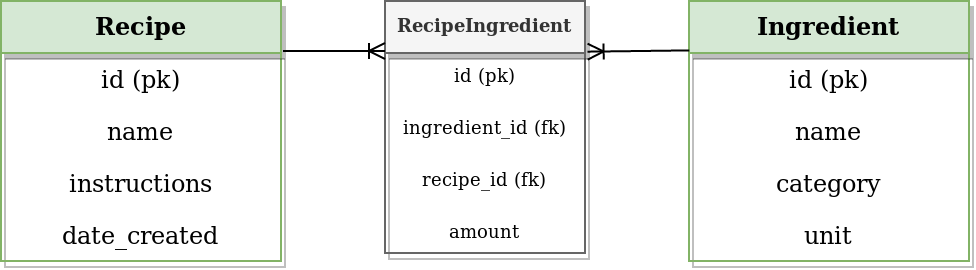
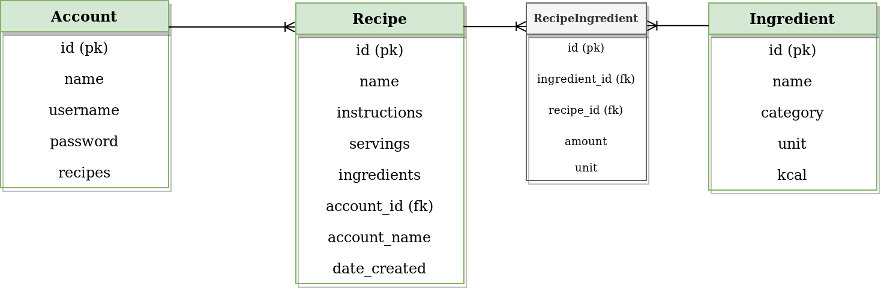
Add search view and update documentation

diff --git a/application/templates/recipes/search.html b/application/templates/recipes/search.html
@@ -1,0 +1,40 @@
+{% extends "layout.html" %}
+
+{% block body %}
+<div class="col-8">
+    <form method="POST" action="{{ url_for('recipes_search') }}">
+        <div class="form-row" style="margin-bottom: 20px;">
+
+            <div class="col-6">
+                <input class="form-control" type="text" name="search"
+                    placeholder="Search for recipes by ingredient category (eg. 'herb')" aria-label="Search">
+            </div>
+            <div class="col-2"> <button name="search_button" type="submit" class="btn btn-primary"
+                    style="background-color: #024700;">Search</button>
+            </div>
+        </div>
+    </form>
+
+
+    <table>
+        {% for recipe in results %}
+        <tr>
+            <td><a href="{{ url_for('view_recipe', recipe_id=recipe.id) }}">{{ recipe.name }}</a> by
+                {{ recipe.account_name }}</td>
+            {% if current_user.is_authenticated and recipe.account_id == account_id %}
+            <td>
+                <form method="GET" action="{{ url_for('edit_recipe', recipe_id=recipe.id) }}">
+                    <input type="submit" value="Edit" />
+                </form>
+            </td>
+            <td>
+                <form method="POST" action="{{ url_for('delete_recipe', recipe_id=recipe.id) }}">
+                    <input type="submit" value="Delete" />
+                </form>
+            </td>
+            {% endif %}
+        </tr>
+        {% endfor %}
+    </table>
+</div>
+{% endblock %}

diff --git a/application/templates/layout.html b/application/templates/layout.html
@@ -20,7 +20,9 @@
         crossorigin="anonymous"></script>
 
     <nav class="navbar navbar-expand-lg navbar-custom">
-        <a class="navbar-brand" href="{{ url_for('recipes_index') }}">recipebase <img src="{{ url_for('static', filename='img/forkandknife_white.png') }}" class="img-fluid" alt="Responsive image"></a>
+        <a class="navbar-brand" href="{{ url_for('recipes_index') }}">recipebase <img
+                src="{{ url_for('static', filename='img/forkandknife_white.png') }}" class="img-fluid"
+                alt="Responsive image"></a>
         <ul class="navbar-nav mr-auto">
             {% if current_user.is_authenticated %}
             <li class="nav-item">
@@ -33,11 +35,17 @@
                 <a class="nav-link" href="{{ url_for('recipes_index') }}">List recipes</a>
             </li>
             <li class="nav-item">
+                <a class="nav-link" href="{{ url_for('recipes_search') }}">Search recipes</a>
+            </li>
+            <li class="nav-item">
                 <a class="nav-link" href="{{ url_for('ingredients_index') }}">List ingredients</a>
             </li class="nav-item">
             {% else %}
             <li class="nav-item">
                 <a class="nav-link" href="{{ url_for('recipes_index') }}">List recipes</a>
+            </li>
+            <li class="nav-item">
+                <a class="nav-link" href="{{ url_for('recipes_search') }}">Search recipes</a>
             </li>
             {% endif %}
         </ul>

diff --git a/application/recipes/views.py b/application/recipes/views.py
@@ -16,6 +16,24 @@ def recipes_index():
     return render_template("recipes/list.html", recipes=Recipe.query.all(), account_id=account_id)
 
 
+@app.route("/recipes/search/", methods=["GET", "POST"])
+def recipes_search():
+    if request.method == 'POST':
+        id_list = Recipe.find_recipes_by_ingredient_category(
+            request.form.get("search"))
+        results = []
+        for i in id_list:
+            results.append(Recipe.query.get(int(i['id'])))
+        account_id = None
+        if current_user.is_authenticated:
+            account_id = current_user.id
+        else:
+            account_id = ""
+        return render_template("recipes/search.html", results=results, account_id=account_id)
+    else:
+        return render_template("recipes/search.html", results=[])
+
+
 @app.route("/recipes/new/", methods=["GET"])
 @login_required
 def recipe_form():

diff --git a/application/recipes/models.py b/application/recipes/models.py
@@ -1,6 +1,6 @@
 from application import db
 from application.ingredients import models
-
+from sqlalchemy.sql import text
 
 class RecipeIngredient(db.Model):
     id = db.Column(db.Integer, primary_key=True)
@@ -28,3 +28,19 @@ class Recipe(db.Model):
 
     def __init__(self, name):
         self.name = name
+
+
+    @staticmethod
+    def find_recipes_by_ingredient_category(category):
+        stmt = text("SELECT Recipe.id FROM Recipe " 
+        "LEFT JOIN Recipe_Ingredient ON Recipe_Ingredient.recipe_id = Recipe.id "
+        "LEFT JOIN Ingredient ON Ingredient.id = Recipe_Ingredient.ingredient_id "
+        "WHERE (Ingredient.category = :category);").params(category=category)
+        res = db.engine.execute(stmt)
+
+        response = []
+        for row in res:
+            response.append({"id": row[0]})
+
+        return response
+  

diff --git a/README.md b/README.md
@@ -1,5 +1,11 @@
 https://recipebase.herokuapp.com
 
+Testaamaan pääsee tunnuksilla user1:user1 ja user2:user2. 
+Kaikki tietokannassa olevat ainekset pitäisivät olla kaikkien käyttäjien saatavilla. Reseptejä pääsee muokkaamaan vain reseptin luonut käyttäjä. 
+Hakutoiminnon on tarkoitus antaa kaikki reseptit, joissa on hakutermiä vastaavalla kategorialla varustettu aines.
+
+***
+
 #### recipebase
 The aim is to create a database of ingredients and recipes. Users may create and store recipes using ingredients in the database and add missing ingredients to the database. Users may make recipes public to be viewed by anyone or keep them private. Recipes may be searched for using different parameters: by recipe name, recipe time, ingredient name, ingredient category or different combinations.
 Tags for recipes might be added later for more search options.
@@ -10,17 +16,14 @@ Tags for recipes might be added later for more search options.
 
 
 ##### Current version
-Authorized users can create, delete, view and edit recipes. A recipe has a name, instructions, creation timestamp and a list of associated ingredients. An ingredient is connected to a recipe via an association object that also stores the amount.
+Authorized users can create, delete, view and edit recipes. Unauthorized users can view and search for recipes. Currently all recipes are visible to all. 
 
-Ingredients existing in the database can be added to recipes via a jQuery autocomplete function. New ingredients are automatically added to the database at recipe creation, and they can also be added and viewed separately. At this time ingredient properties consist of a name, category, unit of measurement and a kcal per unit value.
+A recipe has a name, instructions, creation timestamp and a list of associated ingredients. An ingredient is connected to a recipe via an association object that also stores amount and unit of measurement used in recipe.
 
+Ingredients in the database can be added to recipes via a jQuery autocomplete function. New ingredients are automatically added to the database at recipe creation, and they can also be added and viewed separately. Currently all ingredients are visible to all authorized users.
 
-##### Todo
-- Link added ingredient to user: the idea is for a user to be able to maintain their own customizable collection of preferred ingredients, not provide a huge default selection
-- Public/private toggle for recipes
-- Appropriate login-required checks for actions
-- Admin view for managing users etc.
-- Do not lock empty fields as readonly when retrieving ingredients to enable updates
+Kcal values for ingredients and time for recipes exist in the db but are not utilized yet.
+
 
 [Current database diagram](documentation/current_diagram.png)
 
